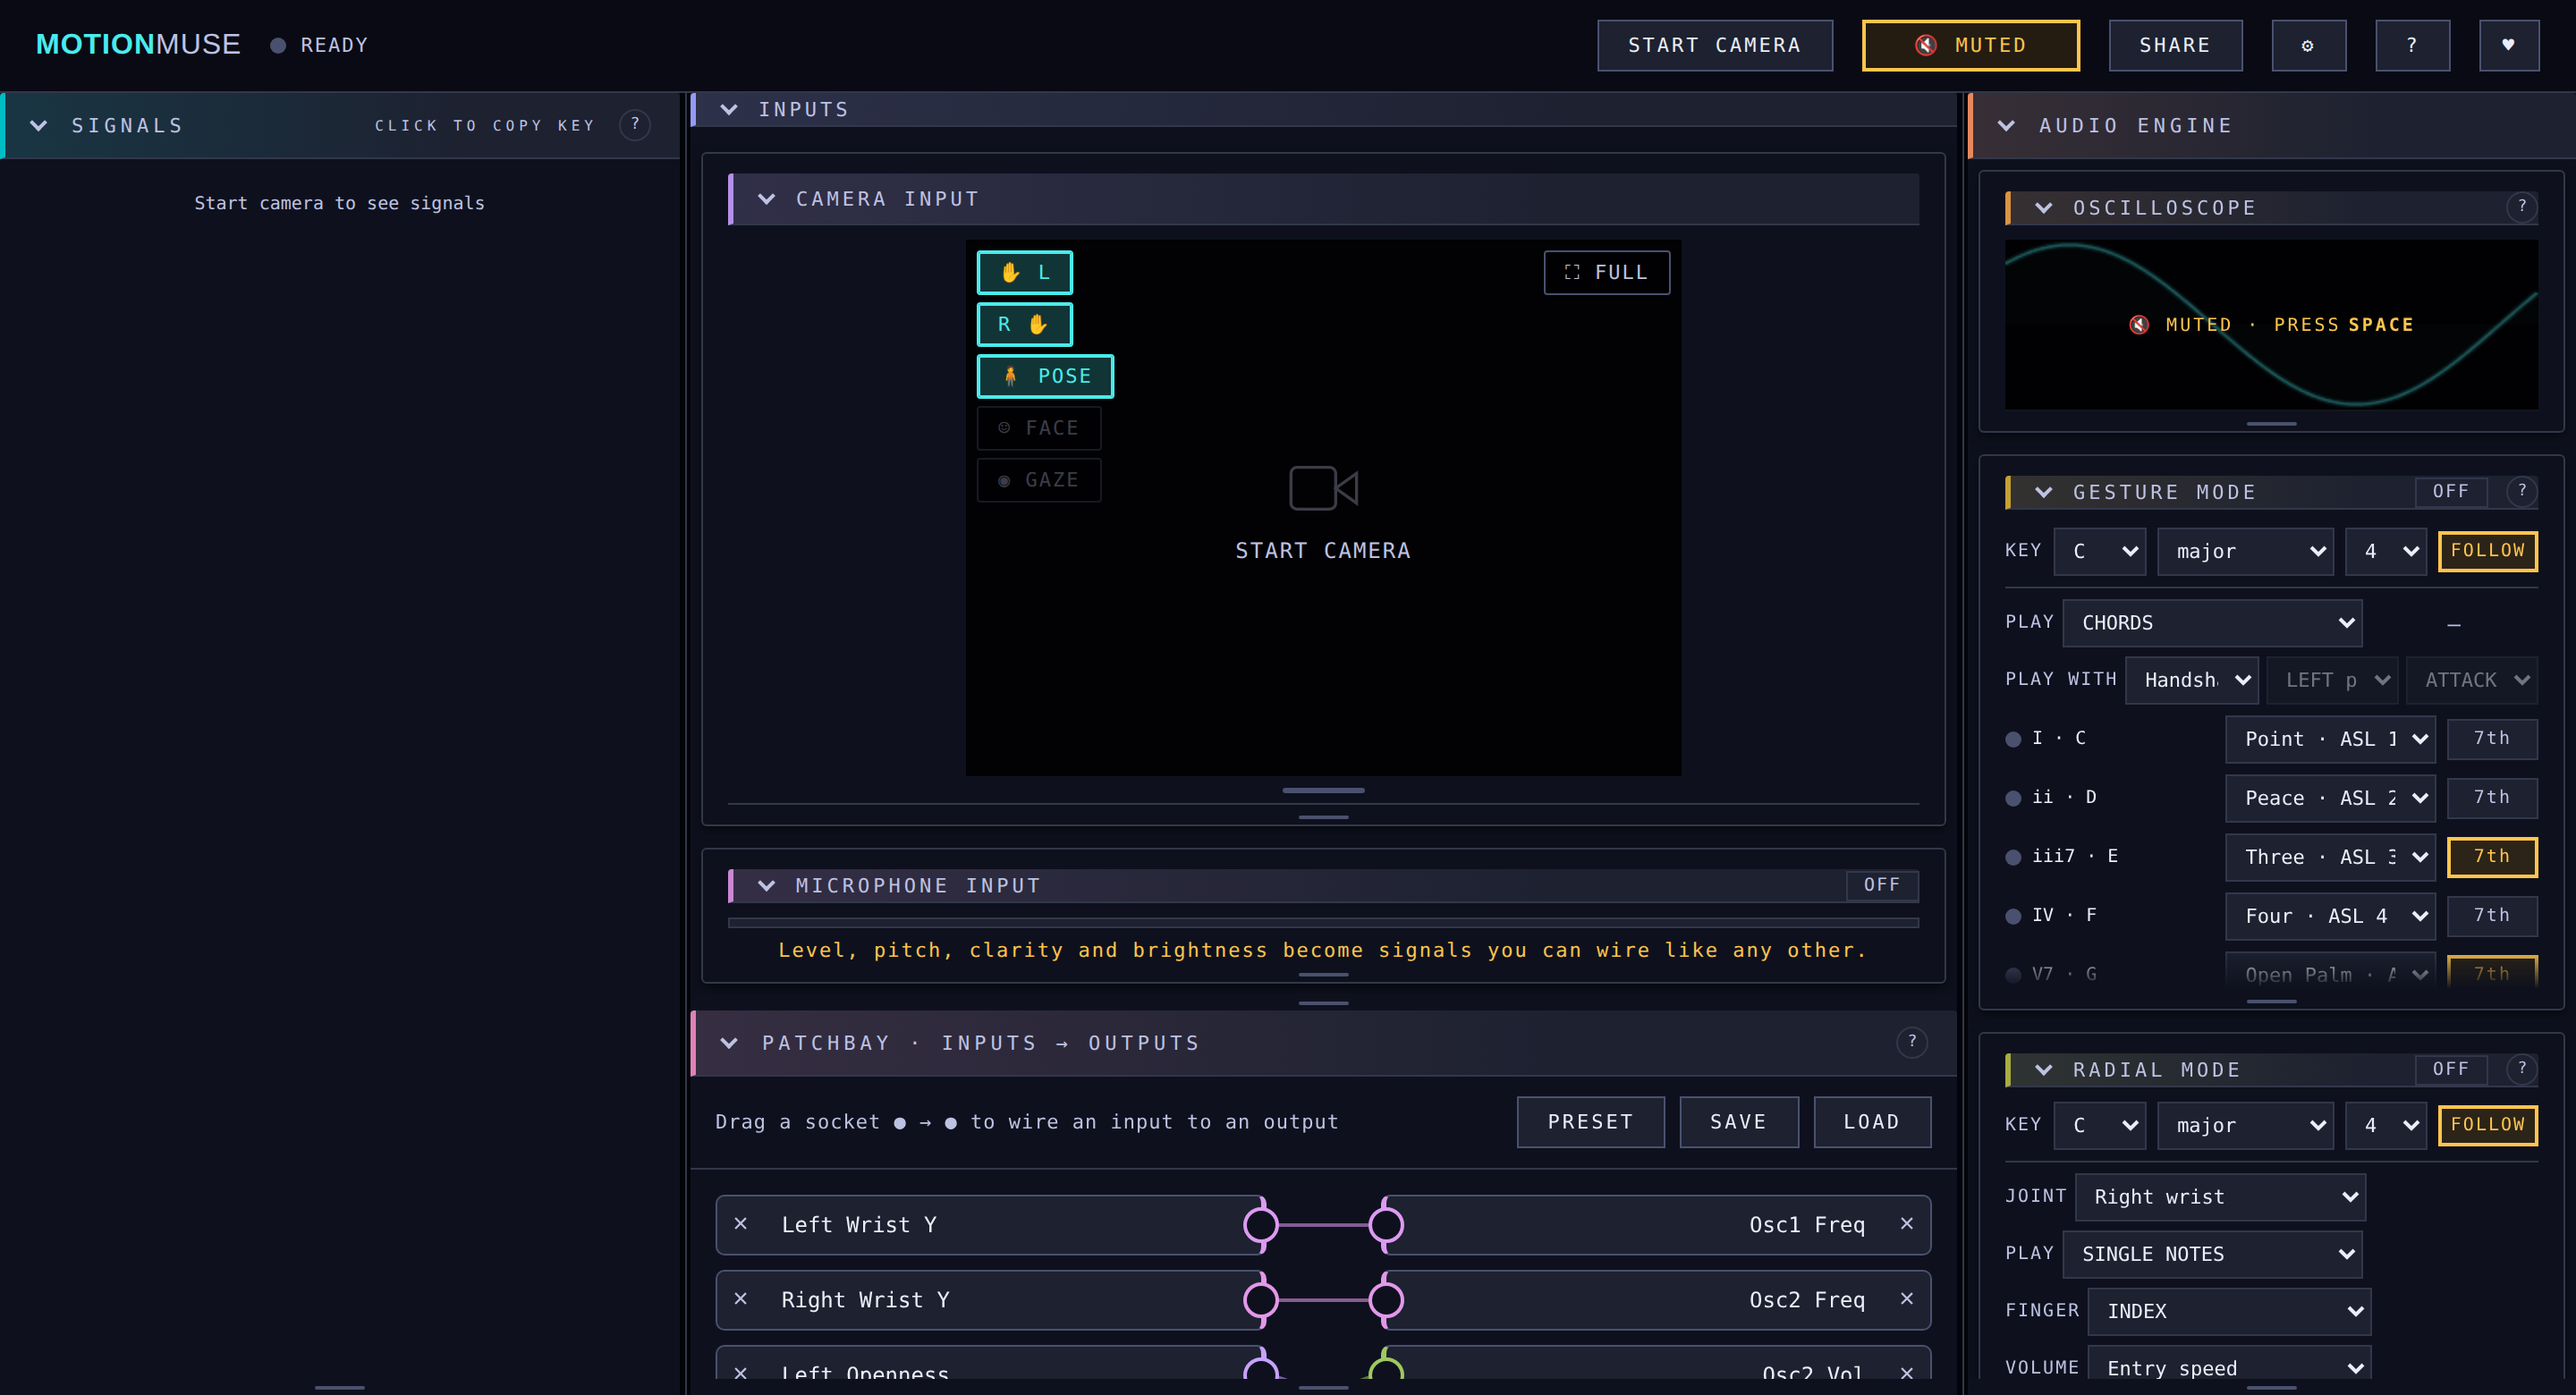
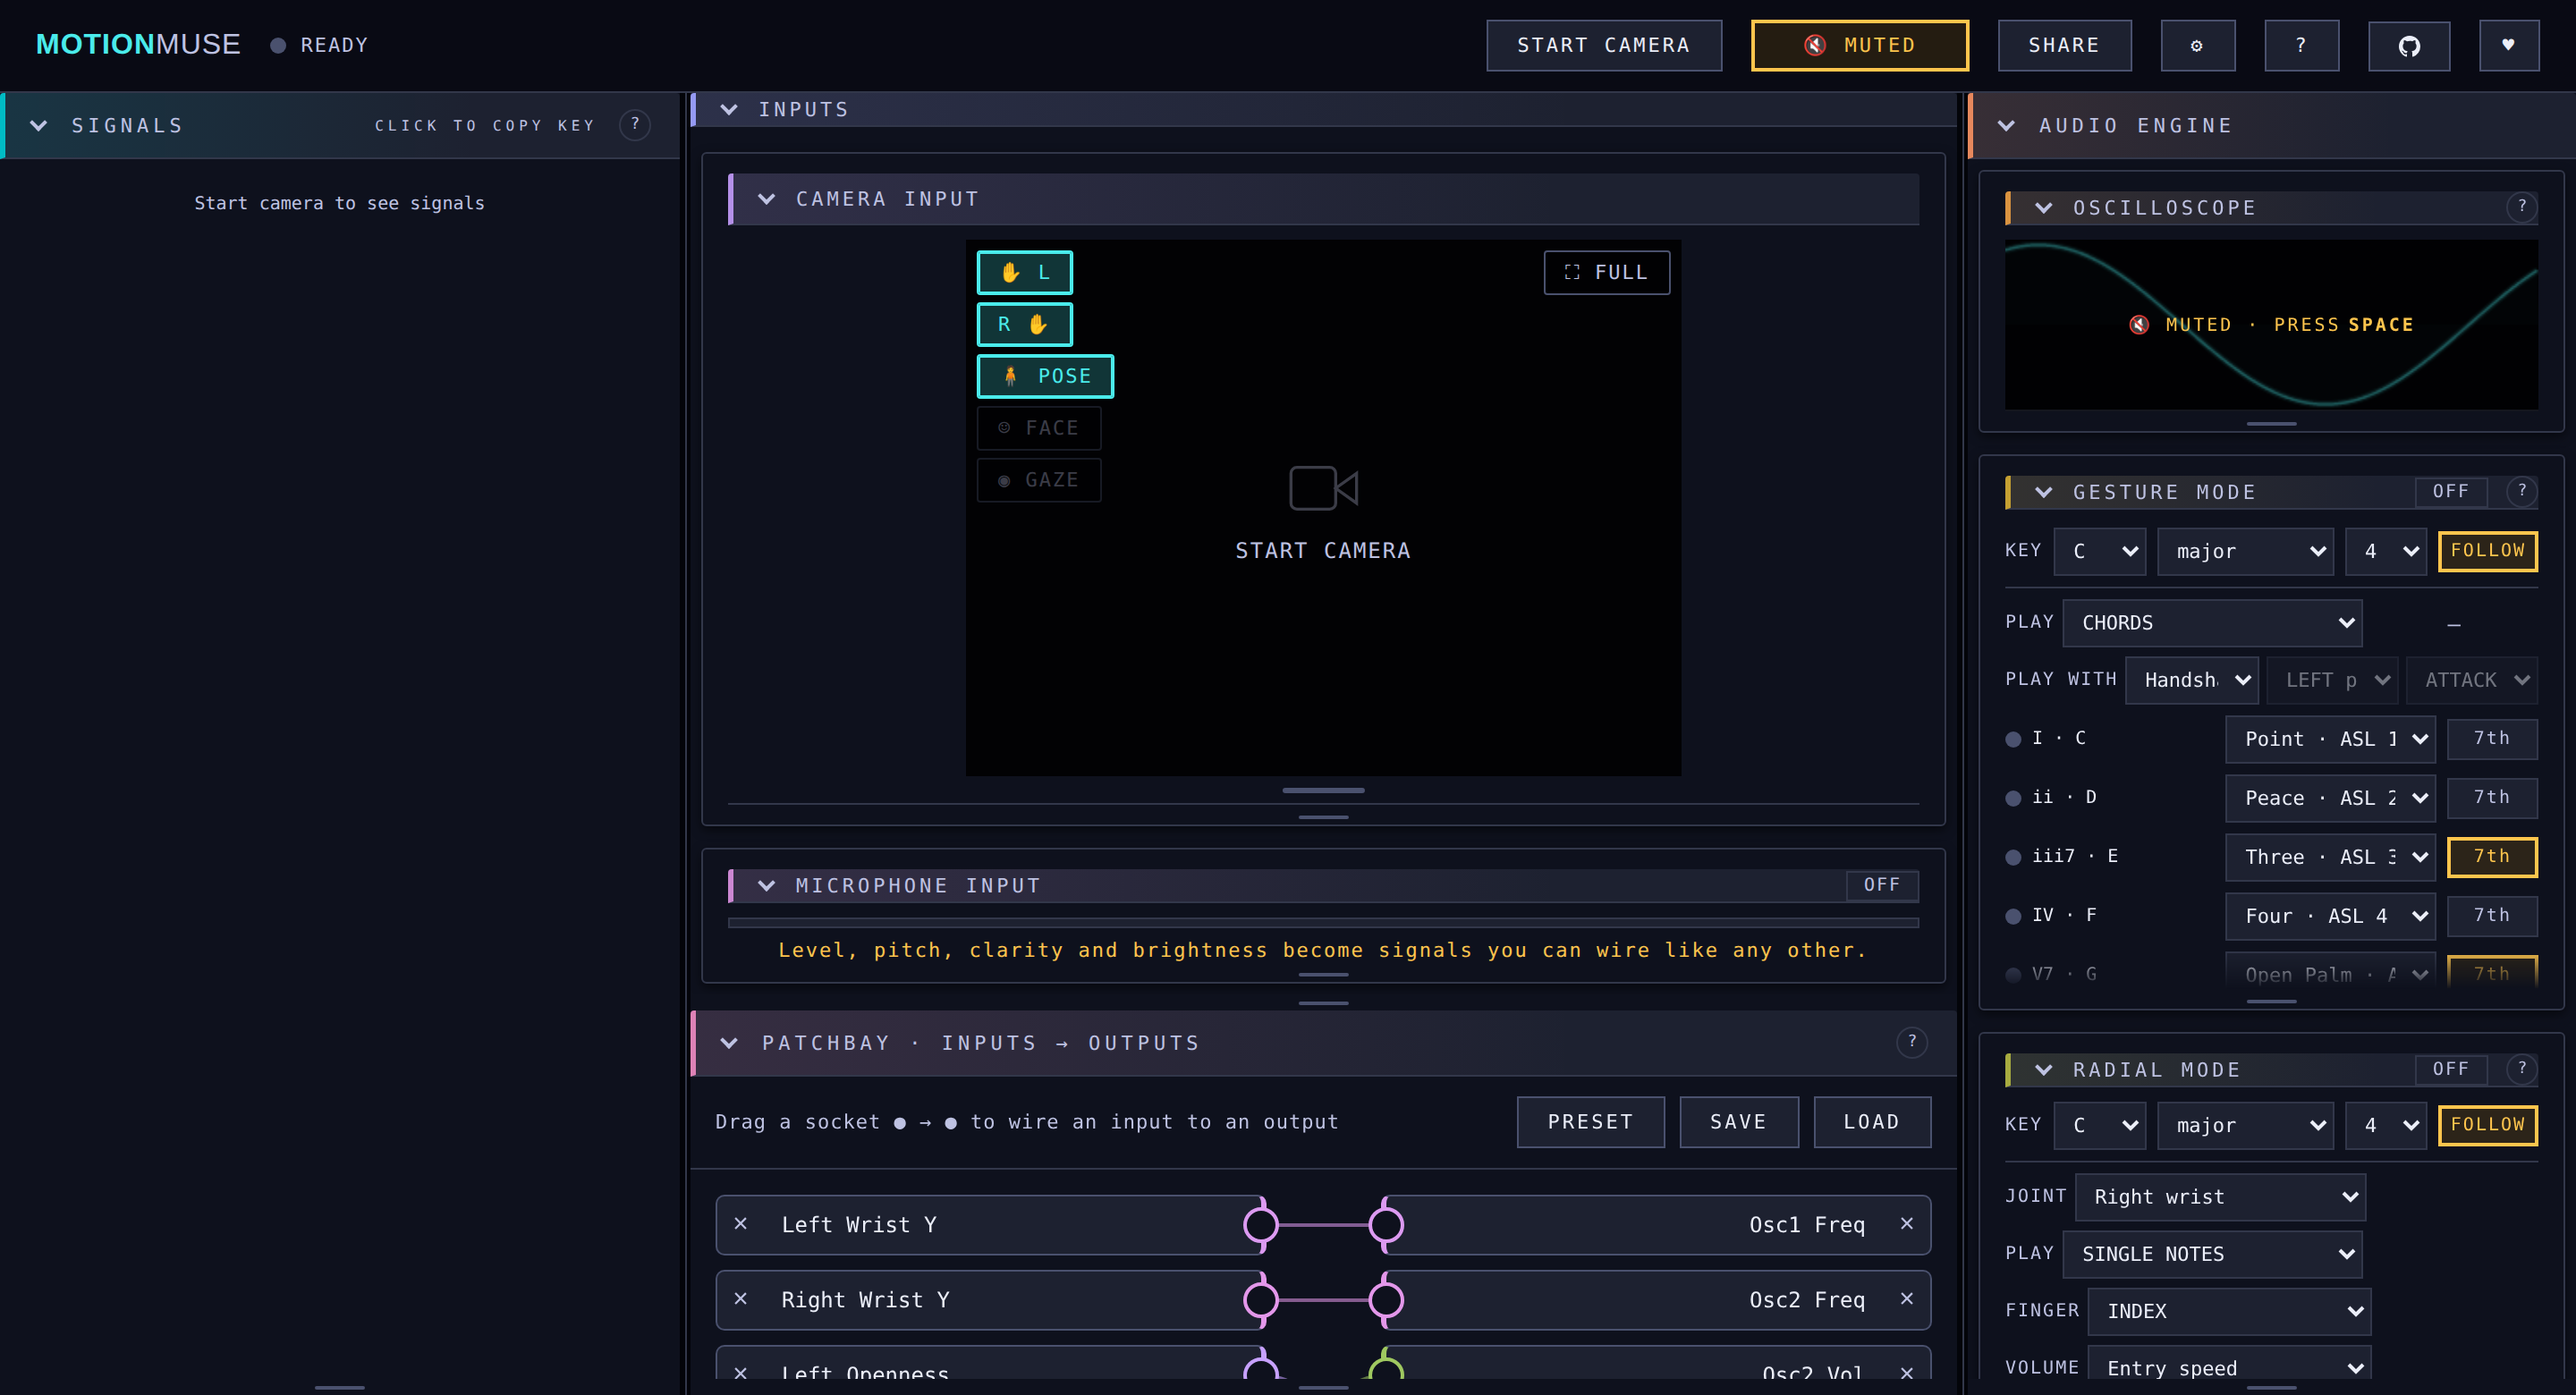
Link the repo from the header
A plain <a> wearing .btn, between the tour and donate buttons: "where is
the code" deserves one click, not a popover. Opens a new tab — leaving
the instrument mid-patch loses nothing saved but everything playing.

Claude-Session: https://claude.ai/code/session_01EJSQQ6fdL1e99JqSc5K8tn

diff --git a/index.html b/index.html
@@ -59,6 +59,14 @@
       <button class="btn" id="settings-btn" aria-haspopup="menu" aria-expanded="false"
               title="Settings — theme, hotkeys and other controls for the tool rather than the sound">⚙</button>
       <button class="btn" id="tour-btn" title="Guided tour">?</button>
+      <!-- A plain link, not a popover: "where is the code" deserves one click.
+           An <a> styled as a .btn so it sits in the row as a peer — it opens
+           a new tab, since leaving the instrument mid-patch loses nothing
+           saved but everything playing. -->
+      <a class="btn" id="repo-link" href="https://github.com/Dentarthurdent42/MotionMuse"
+         target="_blank" rel="noopener" title="Source code on GitHub" aria-label="Source code on GitHub">
+        <svg viewBox="0 0 16 16" width="12" height="12" fill="currentColor" aria-hidden="true"><path d="M8 0C3.58 0 0 3.58 0 8c0 3.54 2.29 6.53 5.47 7.59.4.07.55-.17.55-.38 0-.19-.01-.82-.01-1.49-2.01.37-2.53-.49-2.69-.94-.09-.23-.48-.94-.82-1.13-.28-.15-.68-.52-.01-.53.63-.01 1.08.58 1.23.82.72 1.21 1.87.87 2.33.66.07-.52.28-.87.51-1.07-1.78-.2-3.64-.89-3.64-3.95 0-.87.31-1.59.82-2.15-.08-.2-.36-1.02.08-2.12 0 0 .67-.21 2.2.82a7.6 7.6 0 0 1 2-.27c.68 0 1.36.09 2 .27 1.53-1.04 2.2-.82 2.2-.82.44 1.1.16 1.92.08 2.12.51.56.82 1.27.82 2.15 0 3.07-1.87 3.75-3.65 3.95.29.25.54.73.54 1.48 0 1.07-.01 1.93-.01 2.2 0 .21.15.46.55.38A8.01 8.01 0 0 0 16 8c0-4.42-3.58-8-8-8Z"/></svg>
+      </a>
       <button class="btn" id="donate-btn" aria-haspopup="menu" aria-expanded="false"
               title="Support this project — donation links">♥</button>
     </div>

diff --git a/css/main.css b/css/main.css
@@ -396,6 +396,9 @@ body.resizing { cursor: col-resize; user-select: none; }
   white-space: nowrap;
 }
 .btn.on { border-color: var(--cyan); color: var(--cyan); background: var(--cyan-dim); }
+/* An anchor wearing .btn (the repo link): kill the link underline and center
+   its glyph so it stands in the row as a peer of the buttons around it. */
+a.btn { text-decoration: none; display: inline-flex; align-items: center; }
 .btn.purple.on { border-color: var(--purple); color: var(--purple); background: var(--purple-dim); }
 /* Muted is a *state*, not a disabled control, so it reads as loud as "on"
    does. Amber rather than red: nothing is wrong, the sound is just off. */
